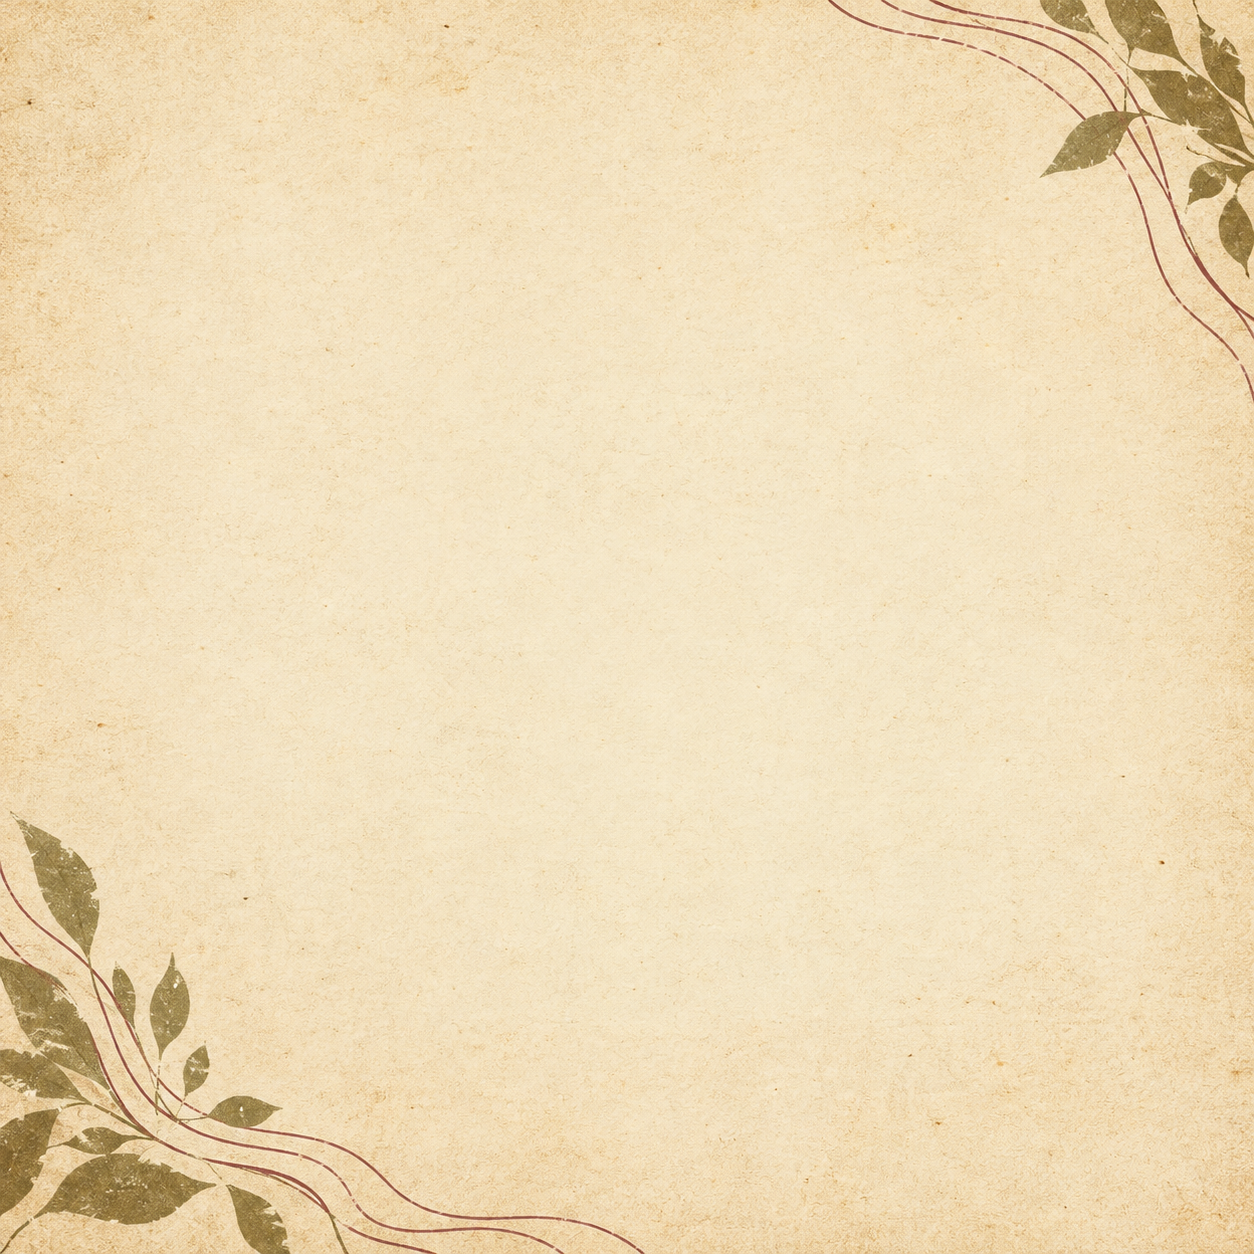
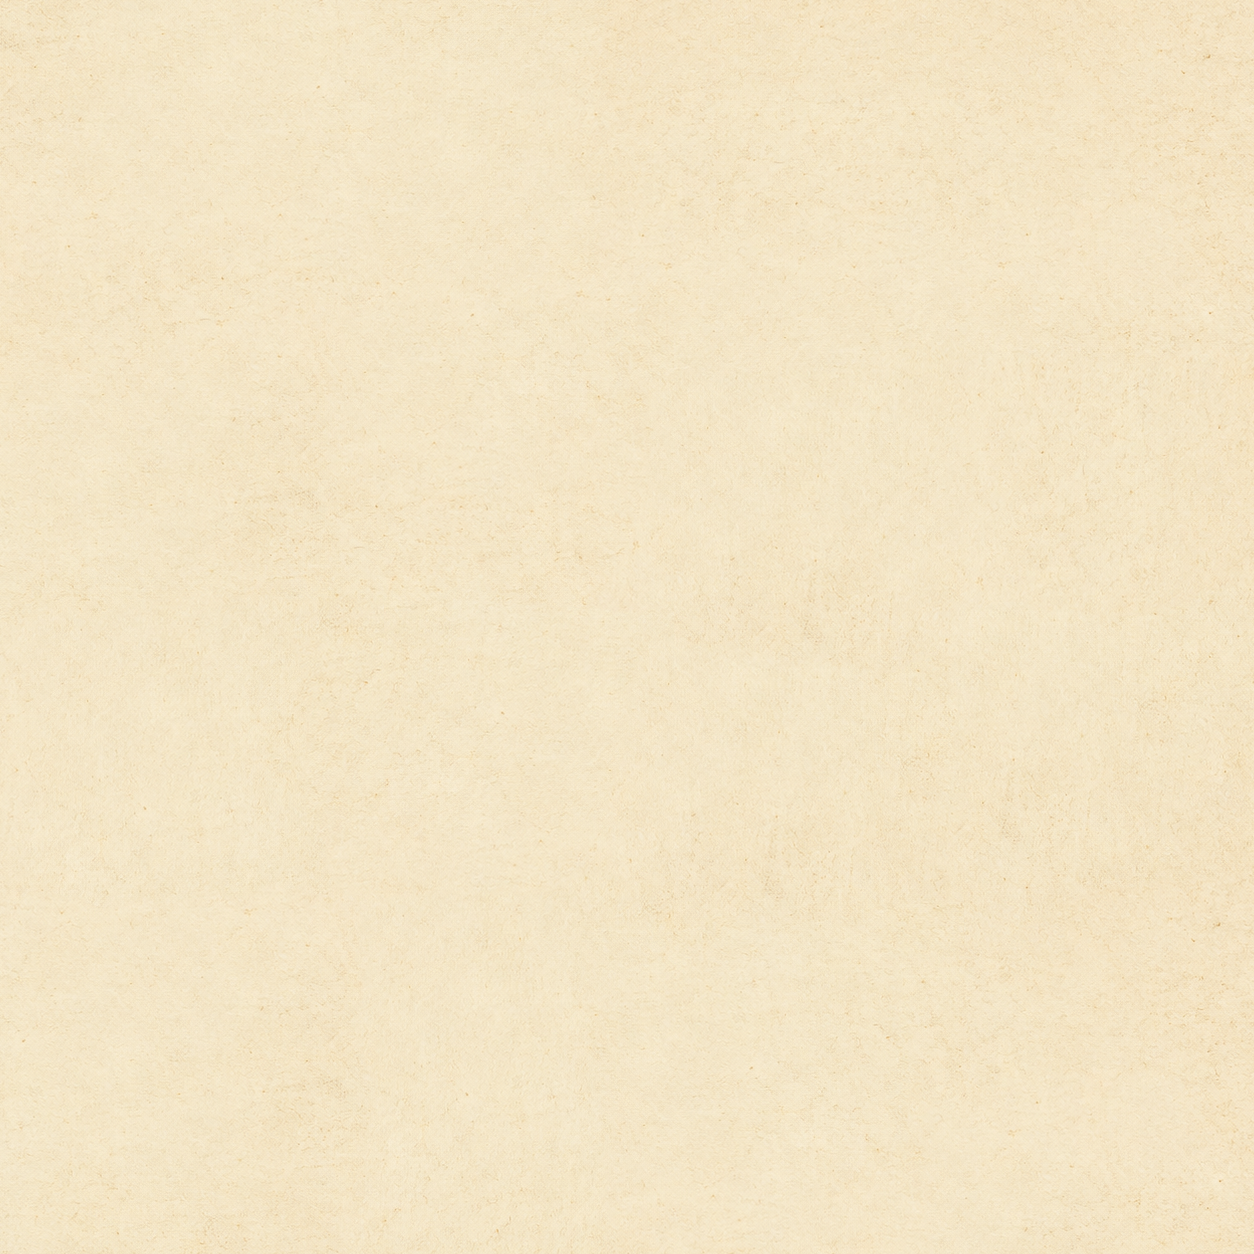
Polish booklet paper, bonus artwork and final-page navigation

Changed region(s): [[0.0, 0.0, 1.0, 1.0], [0.6842, 0.1555, 0.7153, 0.1866], [0.1866, 0.0933, 0.2177, 0.1244]]

diff --git a/css/style.css b/css/style.css
@@ -119,6 +119,7 @@ h1 { font-family: Georgia, 'Times New Roman', serif; font-size: clamp(44px, 12.9
 .signature { font: italic 19px Georgia, serif; margin-top: 30px; color: #7b4f36; }
 .page-navigation { display: flex; justify-content: space-between; align-items: center; color: #e5dbc3; margin-top: 26px; }
 .page-navigation .icon-button { border-color: #e5dbc340; }
+.is-bonus-page .page-navigation #page-prev, .is-bonus-page .page-navigation #page-next { visibility: hidden; }
 #page-counter { font-size: 10px; letter-spacing: 3px; font-variant-numeric: tabular-nums; }
 .reader-hint { font-size: 9px; color: #bcb69d; letter-spacing: .4px; text-align: center; margin: 15px 0 0; }
 .reader-cover { position: absolute; inset: 0; z-index: 4; transform-origin: left center; backface-visibility: hidden; -webkit-backface-visibility: hidden; pointer-events: none; }

diff --git a/js/booklet.js b/js/booklet.js
@@ -125,6 +125,7 @@
     }
     render() {
       const definition = this.pages[this.index];
+      this.dialog.classList.toggle("is-bonus-page", definition.type === "bonus");
       const fragment = document.createDocumentFragment();
       fragment.append(element("p", "page-eyebrow", definition.eyebrow), element("h2", "page-title", definition.title));
       if (definition.text) fragment.append(element("p", "page-copy", definition.text));

diff --git a/js/data.js b/js/data.js
@@ -9,7 +9,7 @@ window.ALBUM_DATA = {
     disc: "assets/img/disc-label.jpg",
     pageBackground: "assets/img/page-paper.png",
     backInlay: "assets/img/back-inlay.png",
-    bonusArtwork: "assets/img/cover.png"
+    bonusArtwork: "assets/img/bonus-art.jpg"
   },
   /* Public tracks only. The bonus object is appended by the player, exactly once. */
   tracks: [
